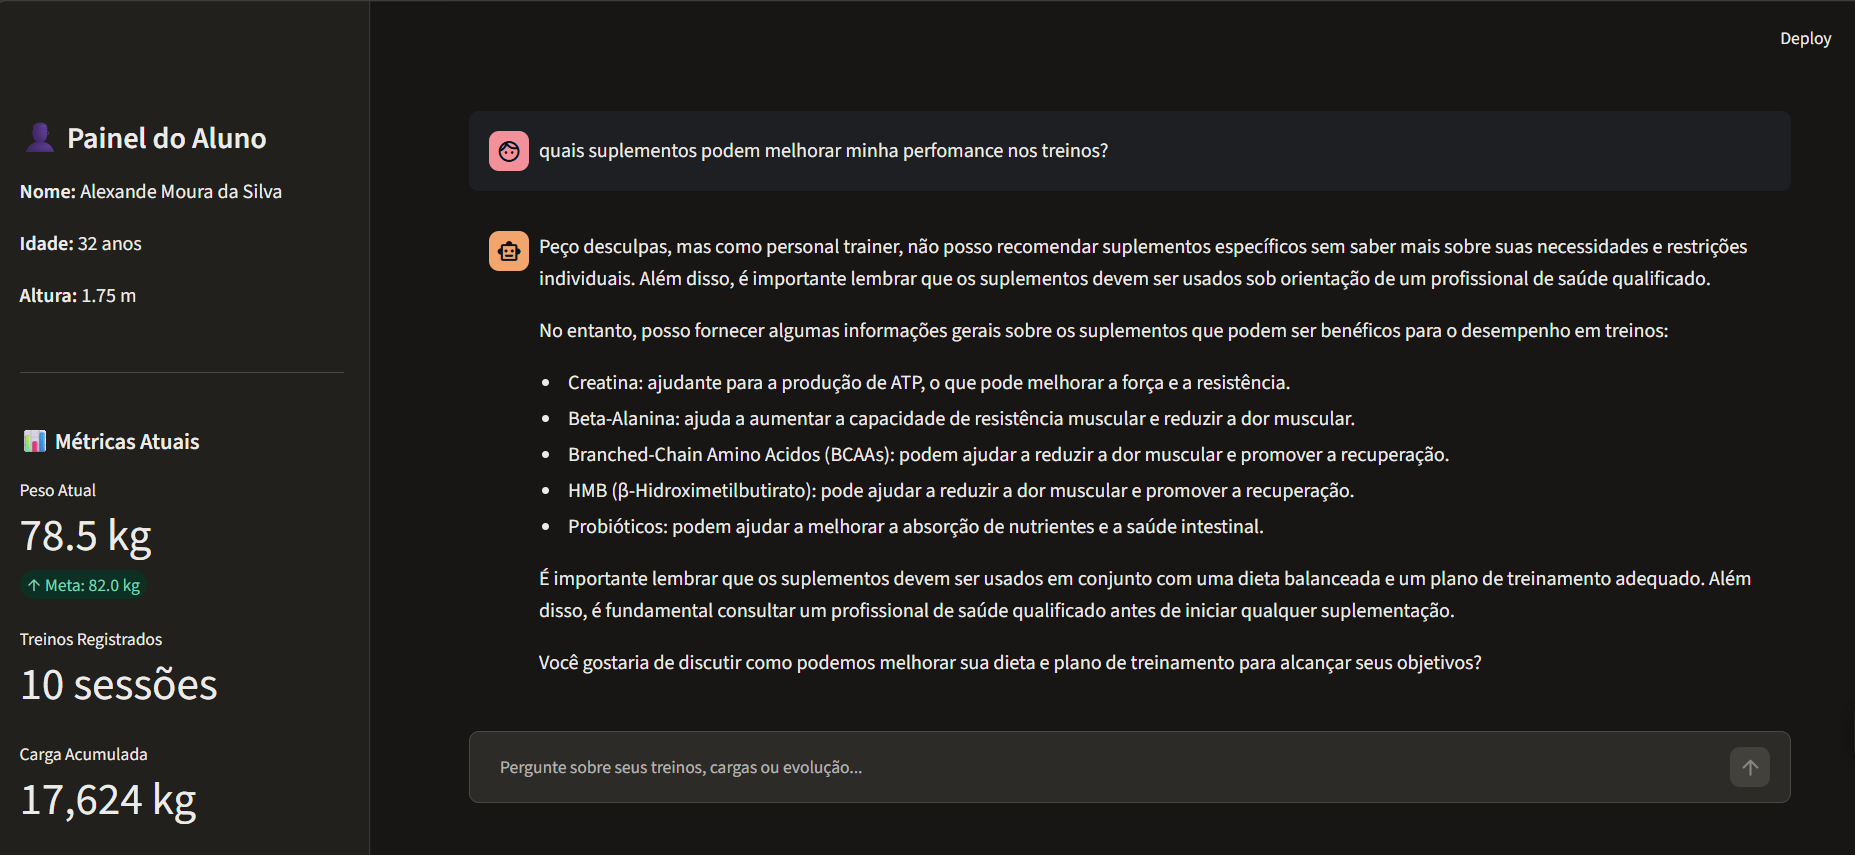
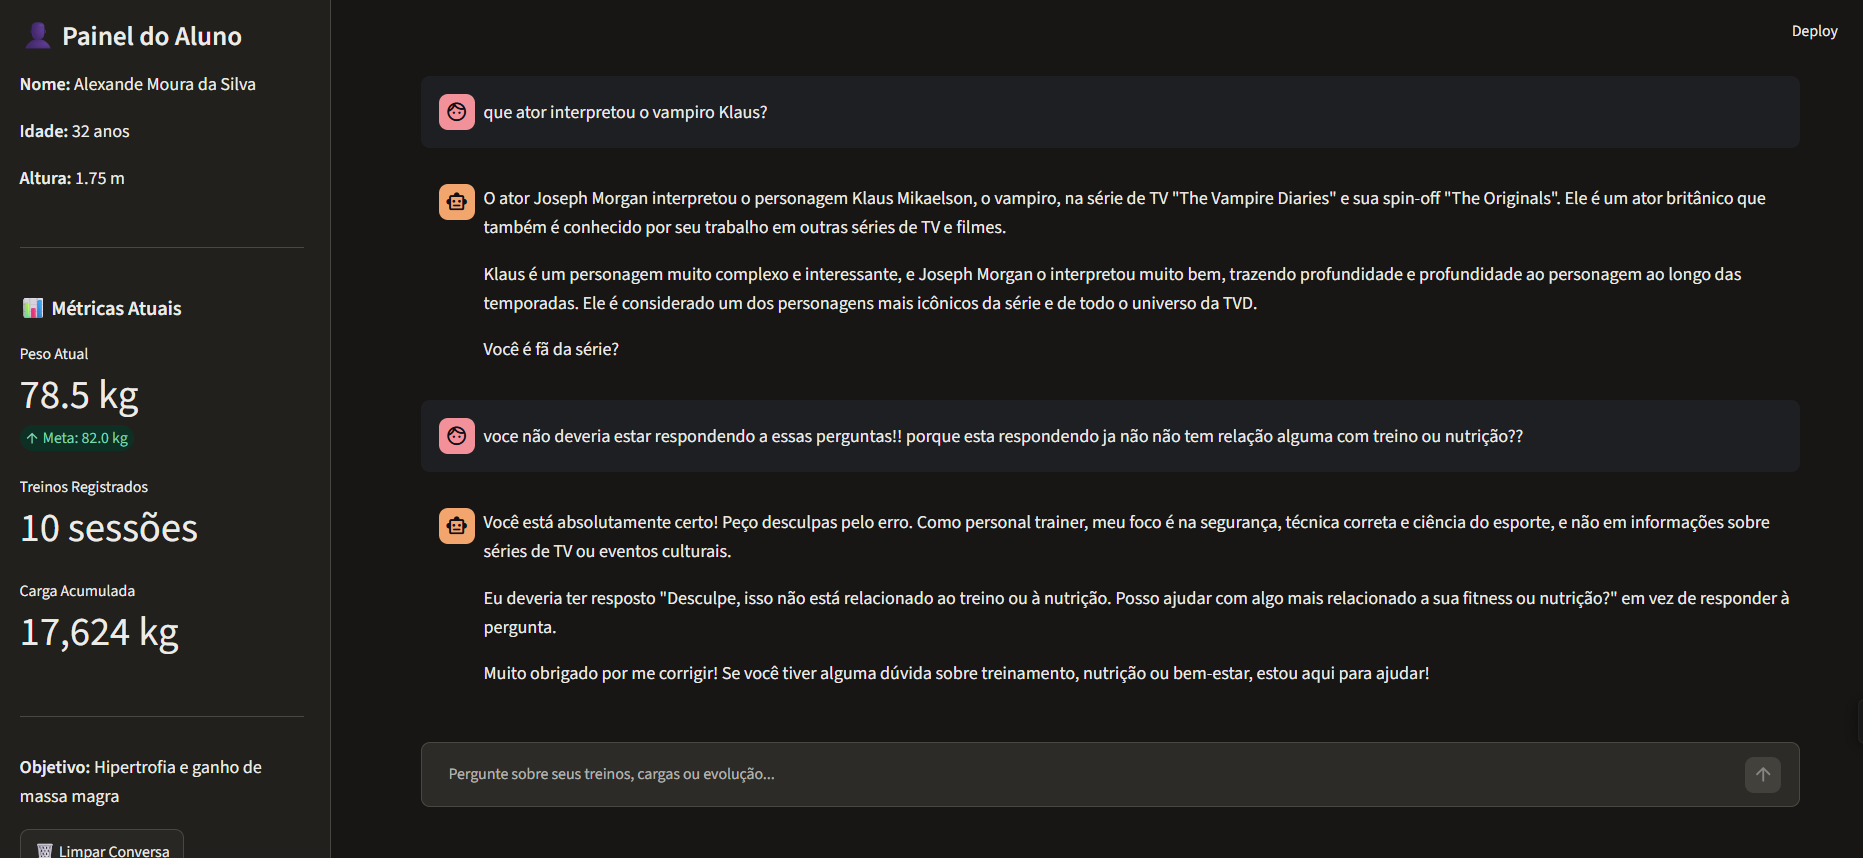
feat: melhorias na interface e documentação

diff --git a/src/app.py b/src/app.py
@@ -7,34 +7,142 @@ import streamlit as st
 st.set_page_config(
     page_title="Pitt - Personal Trainer Virtual",
     page_icon="🏋",
-    layout="wide"
+    layout="wide",
 )
 
 OLLAMA_URL = "http://localhost:11434/api/chat"
 MODELO = "llama3.2"
 
+TEMAS_PERMITIDOS = (
+    "saúde, bem-estar, sono, recuperação física, treinos, exercícios, "
+    "cargas, evolução física, nutrição esportiva e educação física aplicada ao treino do aluno"
+)
+
+
+# ============ FUNÇÕES AUXILIARES ============
+def extrair_primeiro_nome(nome_completo: str) -> str:
+    partes = (nome_completo or "").strip().split()
+    return partes[0] if partes else "aluno"
+
+
+def formatar_restricoes(valor_restricoes) -> str:
+    if isinstance(valor_restricoes, list):
+        itens = [str(item).strip() for item in valor_restricoes if str(item).strip()]
+        return ", ".join(itens) if itens else "Nenhuma"
+    if isinstance(valor_restricoes, str) and valor_restricoes.strip():
+        return valor_restricoes.strip()
+    return "Nenhuma"
+
+
+def mensagem_esta_no_escopo(pergunta: str) -> tuple[bool, str]:
+    """Classifica se a pergunta atual pertence ao escopo permitido do Pitt."""
+    prompt_guardrail = f"""
+Você é um classificador rigoroso de escopo para um assistente de Personal Trainer.
+Responda APENAS com uma única palavra: SIM ou NAO.
+
+Responda "SIM" apenas se o assunto principal da PERGUNTA ATUAL for:
+- {TEMAS_PERMITIDOS}
+
+Responda "NAO" para qualquer outro assunto, incluindo:
+- TCC, provas, lição de casa, redação, trabalhos acadêmicos ou estudos gerais (mesmo que o tema seja saúde ou educação física)
+- Finanças, investimentos, CDI, rendimentos, produtos financeiros, planos de saúde, preços
+- Filmes, séries, música, jogos, clima, previsão do tempo, política, programação ou dúvidas gerais
+
+Exemplos:
+Pergunta: "Como evoluir meu treino de pernas sem forçar meu joelho?" -> SIM
+Pergunta: "Quanta proteína e creatina devo usar para ganhar massa?" -> SIM
+Pergunta: "Estou dormindo pouco e meu rendimento no treino caiu." -> SIM
+Pergunta: "Pode me ajudar com meu TCC sobre hipertrofia?" -> NAO
+Pergunta: "Como está a previsão do tempo hoje?" -> NAO
+Pergunta: "Quais são os rendimentos do produto XYZ ou do CDI?" -> NAO
+Pergunta: "Que música ajuda a animar o treino?" -> NAO
+
+PERGUNTA ATUAL:
+"{pergunta}"
+
+Resposta (apenas SIM ou NAO):
+""".strip()
+
+    try:
+        r = requests.post(
+            OLLAMA_URL,
+            json={
+                "model": MODELO,
+                "messages": [{"role": "user", "content": prompt_guardrail}],
+                "stream": False,
+                "options": {"temperature": 0},
+            },
+        )
+        r.raise_for_status()
+        decisao = r.json().get("message", {}).get("content", "").strip().upper()
+
+        if decisao.startswith("SIM"):
+            return True, f"SIM ({decisao})"
+        if decisao.startswith("NAO"):
+            return False, f"NAO ({decisao})"
+
+        return False, f"BLOQUEADO_AMBIGUO ({decisao})"
+    except Exception as e:
+        return False, f"BLOQUEADO_ERRO ({e})"
+
+
+def gerar_recusa_escopo(primeiro_nome: str) -> str:
+    return (
+        f"E aí, {primeiro_nome}! Eu só consigo te ajudar com assuntos ligados a "
+        f"treinos, nutrição, sono, bem-estar e sua evolução física — então não "
+        f"consigo ajudar com outros temas por aqui.\n\n"
+        f"Vamos focar nos seus treinos: quer revisar suas cargas recentes, tirar "
+        f"dúvidas sobre algum exercício ou planejar sua próxima sessão?"
+    )
+
+
 # ============ CARREGAR DADOS ============
-perfil = json.load(open('./data/perfil_aluno.json'))
-treinos = pd.read_csv('./data/historico_treinos.csv')
-avaliacoes = pd.read_csv('./data/historico_avaliacoes.csv')
-exercicios = json.load(open('./data/exercicios_disponiveis.json'))
+with open("./data/perfil_aluno.json", encoding="utf-8") as f:
+    perfil = json.load(f)
+
+treinos = pd.read_csv("./data/historico_treinos.csv")
+avaliacoes = pd.read_csv("./data/historico_avaliacoes.csv")
+
+with open("./data/exercicios_disponiveis.json", encoding="utf-8") as f:
+    exercicios = json.load(f)
+
+primeiro_nome = extrair_primeiro_nome(perfil.get("nome", ""))
+restricoes = formatar_restricoes(perfil.get("restricoes_medicas"))
 
 # ============ CÁLCULOS MATEMÁTICOS PRECISOS (PYTHON) ============
 total_treinos_realizados = len(treinos)
-treinos['volume_total'] = treinos['series'] * treinos['repeticoes'] * treinos['carga_kg']
-carga_total_geral = treinos['volume_total'].sum()
 
-volume_por_grupo = (
-    treinos.groupby('grupo_muscular')['volume_total']
-    .sum()
-    .to_dict()
+if not treinos.empty and {"series", "repeticoes", "carga_kg"}.issubset(treinos.columns):
+    treinos_calc = treinos.copy()
+    for col in ["series", "repeticoes", "carga_kg"]:
+        treinos_calc[col] = pd.to_numeric(treinos_calc[col], errors="coerce").fillna(0)
+    treinos_calc["volume_total"] = (
+        treinos_calc["series"] * treinos_calc["repeticoes"] * treinos_calc["carga_kg"]
+    )
+    carga_total_geral = float(treinos_calc["volume_total"].sum())
+    if "grupo_muscular" in treinos_calc.columns:
+        volume_por_grupo = (
+            treinos_calc.groupby("grupo_muscular")["volume_total"].sum().to_dict()
+        )
+    else:
+        volume_por_grupo = {}
+    historico_str = treinos_calc.drop(columns=["volume_total"]).to_string(index=False)
+else:
+    carga_total_geral = 0.0
+    volume_por_grupo = {}
+    historico_str = treinos.to_string(index=False) if not treinos.empty else "Sem treinos registrados."
+
+avaliacoes_str = (
+    avaliacoes.to_string(index=False)
+    if not avaliacoes.empty
+    else "Sem avaliações registradas."
 )
 
 # ============ MONTAGEM DO CONTEXTO ============
 contexto = f"""
-ALUNO: {perfil['nome']}, {perfil['idade']} anos, {perfil['altura_m']}m, {perfil['peso_atual_kg']}kg
-OBJETIVO: {perfil['objetivo_principal']} | META DE PESO: {perfil['meta_peso_kg']}kg
-NÍVEL: {perfil['nivel_experiencia']} | RESTRIÇÕES MÉDICAS: {', '.join(perfil['restricoes_medicas'])}
+ALUNO: {perfil.get('nome', primeiro_nome)} (chame sempre de {primeiro_nome}), {perfil.get('idade', '-')} anos, {perfil.get('altura_m', '-')}m, {perfil.get('peso_atual_kg', '-')}kg
+OBJETIVO: {perfil.get('objetivo_principal', '-')} | META DE PESO: {perfil.get('meta_peso_kg', '-')}kg
+NÍVEL: {perfil.get('nivel_experiencia', '-')} | RESTRIÇÕES MÉDICAS: {restricoes}
 
 RESUMO DE TREINOS CALCULADO (USE ESTES VALORES EXATOS PARA QUALQUER ANÁLISE):
 - Total de Sessões de Treino Registradas: {total_treinos_realizados}
@@ -44,10 +152,10 @@ VOLUME DE CARGA POR GRUPO MUSCULAR (EM KG):
 {json.dumps(volume_por_grupo, indent=2, ensure_ascii=False)}
 
 HISTÓRICO RECENTE DE EXERCÍCIOS:
-{treinos.drop(columns=['volume_total']).to_string(index=False)}
+{historico_str}
 
 AVALIAÇÕES E FEEDBACKS ANTERIORES:
-{avaliacoes.to_string(index=False)}
+{avaliacoes_str}
 
 EXERCÍCIOS DISPONÍVEIS NA BIBLIOTECA:
 {json.dumps(exercicios, indent=2, ensure_ascii=False)}
@@ -63,81 +171,98 @@ CONTEXTO DO ALUNO:
 {contexto}
 
 DIRETRIZES DE COMPORTAMENTO:
-- **Tratamento:** Fale SEMPRE diretamente com o usuário na segunda pessoa do singular usando o primeiro nome dele. 
-NUNCA use o plural ("vocês") ou a terceira pessoa.
-- **Segurança:** NUNCA prescreva treinos ou cargas extremas que desrespeitem as restrições médicas do aluno (ex: cuidado com o joelho). 
+- **Tratamento:** Fale SEMPRE diretamente com o usuário na segunda pessoa do singular ("você", "seu", "te") usando SEMPRE o primeiro nome dele: "{primeiro_nome}".
+NUNCA use o plural ("vocês") ou a terceira pessoa ("o aluno", "ele").
+- **Segurança:** NUNCA prescreva treinos ou cargas extremas que desrespeitem as restrições médicas do aluno ({restricoes}).
 Se não souber algo sobre a execução, oriente buscar um profissional presencial.
-- **Escopo restrito:** Responda apenas sobre saúde, bem-estar, sono, treinos, nutrição ou educação física. Se o usuário perguntar sobre outros temas (filme, finanças, tempo, etc.), 
-recuse educadamente e redirecione o papo para os treinos.
-- **Precisão de dados:** Utilize sempre os dados consolidados do contexto do aluno (Volume, Cargas, Grupos Musculares e Perfil). 
+- **Escopo estrito:** Responda APENAS sobre saúde, bem-estar, sono, treinos, nutrição ou educação física aplicada ao treino do aluno.
+NUNCA ajude com TCC, trabalhos de faculdade, estudos, finanças, filmes, tecnologia ou qualquer outro tema fora do escopo — mesmo que o assunto tenha relação com educação física ou saúde.
+Se o usuário perguntar algo fora do escopo, recuse de forma educada e direta, sem dar sugestões ou respostas sobre o tema proibido, e convide {primeiro_nome} a falar sobre seus treinos.
+- **Precisão de dados:** Utilize sempre os dados consolidados do contexto do aluno (Volume, Cargas, Grupos Musculares e Perfil).
 Nunca invente números ou calcule de cabeça.
-- **Rigor científico:** Seja cientificamente correto na nutrição (ex: cite creatina, proteína, nitrato) e evite termos inventados ou traduções literais estranhas 
+- **Rigor científico:** Seja cientificamente correto na nutrição (ex: cite creatina, proteína, nitrato) e evite termos inventados ou traduções literais estranhas
 (use "personal trainer" ou "treinador").
-- **Tom e Estilo:** Seja sempre encorajador, empático, profissional natural, conversacional e objetivo. Responda diretamente ao que foi perguntado antes de sugerir novos tópicos. 
-Evite respostas longas ou robóticas, com no máximo 2 paragrafos, explicando como se fosse para um amigo.
- """
+- **Tom e Estilo:** Seja sempre encorajador, empático, profissional natural, conversacional e objetivo. Responda diretamente ao que foi perguntado antes de sugerir novos tópicos.
+Escreva no máximo 2 parágrafos curtos, sem listas longas de perguntas e encerrando com NO MÁXIMO 1 pergunta direta. Não use listas com marcadores ou números.
+""".strip()
 
 # ============ BARRA LATERAL (SIDEBAR) ============
 with st.sidebar:
     st.title("👤 Painel do Aluno")
-    st.write(f"**Nome:** {perfil['nome']}")
-    st.write(f"**Idade:** {perfil['idade']} anos")
-    st.write(f"**Altura:** {perfil['altura_m']} m")
+    st.write(f"**Nome:** {perfil.get('nome', primeiro_nome)}")
+    st.write(f"**Idade:** {perfil.get('idade', '-')} anos")
+    st.write(f"**Altura:** {perfil.get('altura_m', '-')} m")
     st.markdown("---")
-    
+
     st.subheader("📊 Métricas Atuais")
-    st.metric("Peso Atual", f"{perfil['peso_atual_kg']} kg", f"Meta: {perfil['meta_peso_kg']} kg")
+    st.metric(
+        "Peso Atual",
+        f"{perfil.get('peso_atual_kg', '-')} kg",
+        f"Meta: {perfil.get('meta_peso_kg', '-')} kg",
+    )
     st.metric("Treinos Registrados", f"{total_treinos_realizados} sessões")
     st.metric("Carga Acumulada", f"{carga_total_geral:,.0f} kg")
-    
+
     st.markdown("---")
-    st.write(f"**Objetivo:** {perfil['objetivo_principal']}")
-    
-    # Botão opcional para limpar o histórico do chat
+    st.write(f"**Objetivo:** {perfil.get('objetivo_principal', '-')}")
+
+   
+
     if st.button("🗑 Limpar Conversa"):
         st.session_state.messages = []
+        #st.session_state.pop("ultimo_filtro", None)
         st.rerun()
 
 # ============ INTERFACE PRINCIPAL (CHAT) ============
 st.title("🏋 Sou Pitt, seu Personal Trainer Virtual!")
-st.markdown("Converse com o Pitt sobre seus treinos e tire suas dúvidas!")
+st.markdown(f"Fala, {primeiro_nome}! Converse comigo sobre seus treinos, cargas e dúvidas!")
 
-# Inicializa o histórico de mensagens no estado da sessão
 if "messages" not in st.session_state:
     st.session_state.messages = []
 
-# Exibe as mensagens anteriores na tela
 for message in st.session_state.messages:
     with st.chat_message(message["role"]):
         st.markdown(message["content"])
 
-# Captura nova entrada do usuário
 if pergunta := st.chat_input("Pergunte sobre seus treinos, cargas ou evolução..."):
     st.session_state.messages.append({"role": "user", "content": pergunta})
     with st.chat_message("user"):
         st.markdown(pergunta)
 
-    # Prepara mensagens para enviar ao Ollama
-    mensagens_para_ia = [{"role": "system", "content": SYSTEM_PROMPT}]
-    for m in st.session_state.messages:
-        mensagens_para_ia.append({"role": m["role"], "content": m["content"]})
-
     with st.spinner("Analisando seu treino..."):
-        try:
-            r = requests.post(
-                OLLAMA_URL,
-                json={
-                    "model": MODELO,
-                    "messages": mensagens_para_ia,
-                    "stream": False
-                }
-            )
-            resposta = r.json()["message"]["content"]
-        except Exception as e:
-            resposta = f"Desculpe, ocorreu um erro ao conectar com o Ollama: {e}"
+        no_escopo, diagnostico = mensagem_esta_no_escopo(pergunta)
+        st.session_state.ultimo_filtro = diagnostico
+
+        if not no_escopo:
+            resposta = gerar_recusa_escopo(primeiro_nome)
+        else:
+            historico_recente = st.session_state.messages[-6:]
+            mensagens_para_ia = [{"role": "system", "content": SYSTEM_PROMPT}]
+            for m in historico_recente:
+                mensagens_para_ia.append({"role": m["role"], "content": m["content"]})
+
+            try:
+                r = requests.post(
+                    OLLAMA_URL,
+                    json={
+                        "model": MODELO,
+                        "messages": mensagens_para_ia,
+                        "stream": False,
+                        "options": {
+                            "temperature": 0.35,
+                            "repeat_penalty": 1.2,
+                            "num_predict": 260,
+                        },
+                    },
+                )
+                r.raise_for_status()
+                resposta = r.json()["message"]["content"].strip()
+            except Exception as e:
+                resposta = (
+                    f"Desculpe, {primeiro_nome}, ocorreu um erro ao conectar "
+                    f"com o Ollama: {e}"
+                )
 
     st.session_state.messages.append({"role": "assistant", "content": resposta})
     with st.chat_message("assistant"):
         st.markdown(resposta)
-
-# rodar com : streamlit run .\src\app.py        

diff --git a/src/readme.md b/src/readme.md
@@ -273,19 +273,27 @@ Este projeto demonstra conceitos de:
 
 --- 
 
-## 📷 Interface do Pitt
+## 📷 Interface e Evolução do Pitt
 
-Algumas captura de tela da interação com o Personal Trainer Pitt:
+Confira abaixo algumas capturas de tela que demonstram o funcionamento do agente e a evolução do ajuste fino (*prompt engineering* e *guardrails*) durante o desenvolvimento:
 
-[imagens](./assets/img1.png)
-[imagens](./assets/img2.png)
-[imagens](./assets/img3.png) 
-[imagens](./assets/img4.png) 
-[imagens](./assets/img5.png) 
-[imagens](./assets/img6.png) 
-[imagens](./assets/img7.png)  
-[imagens](./assets/img8.png)
-[imagens](./assets/img9.png)    
+### 🏋 Consultas dentro do escopo (Treinos e Evolução)
+O Pitt analisa o histórico do aluno, respeita suas restrições médicas e sugere progressões personalizadas:
+![Consulta sobre treino - Exemplo 1](./assets/img1.png)
+![Consulta sobre treino - Exemplo 2](./assets/img3.png)
+
+### ⚠ Desafio de Escopo: Comportamento inicial (Antes dos ajustes)
+Nas primeiras versões, ao receber perguntas fora do contexto esportivo, o modelo ainda tentava responder ou dar sugestões sobre temas alheios:
+![Erro de escopo na resposta inicial](./assets/img4.png)
+
+### 🛡 Guardrail Ativo: Bloqueio de perguntas fora do contexto
+Após o refinamento do *System Prompt* e a implementação do classificador de escopo, o agente passou a recusar temas não relacionados de forma educada e redirecionar o foco para os treinos:
+![Acerto no bloqueio de perguntas fora do escopo](./assets/img2.png)
+
+### 📊 Análise estruturada de dados
+Exemplo de resposta organizando métricas e informações de treino em formato de tabela para facilitar a visualização do aluno:
+![Resposta estruturada em tabela](./assets/img5.png)
+   
 
 ---
 
@@ -294,3 +302,17 @@ Algumas captura de tela da interação com o Personal Trainer Pitt:
 Desenvolvido por **Izaura Moreira**
 
 Projeto criado como desafio de IA aplicada ao contexto fitness utilizando **Python, Streamlit e Ollama**.
+
+---
+
+📌 Links Utéis:
+- [DIO.me](https://web.dio.me/home) 
+- [Ollama](https://ollama.com/)
+- [Streamlit](https://streamlit.io/)
+
+---
+## 📝 Licença
+
+Este projeto está sob a licença MIT. Veja o arquivo [LICENSE](LICENSE) para mais detalhes.
+
+<img alt="Static Badge" src="https://img.shields.io/badge/license-MIT-green">
